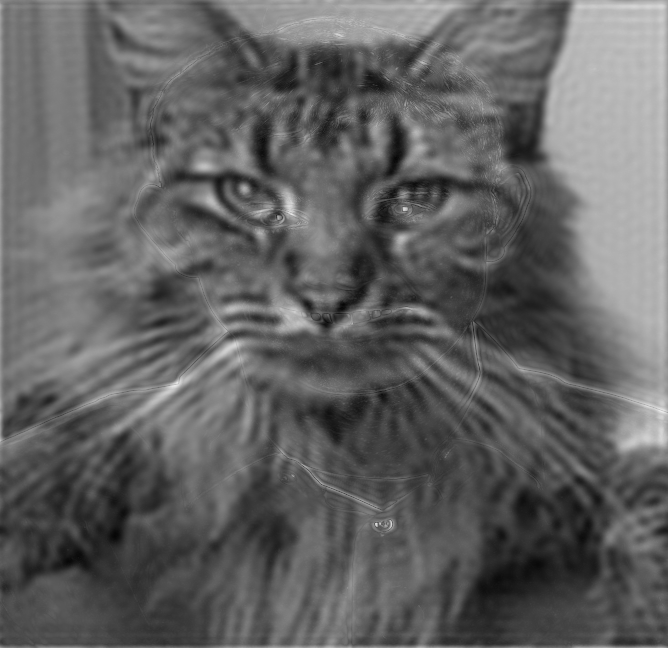
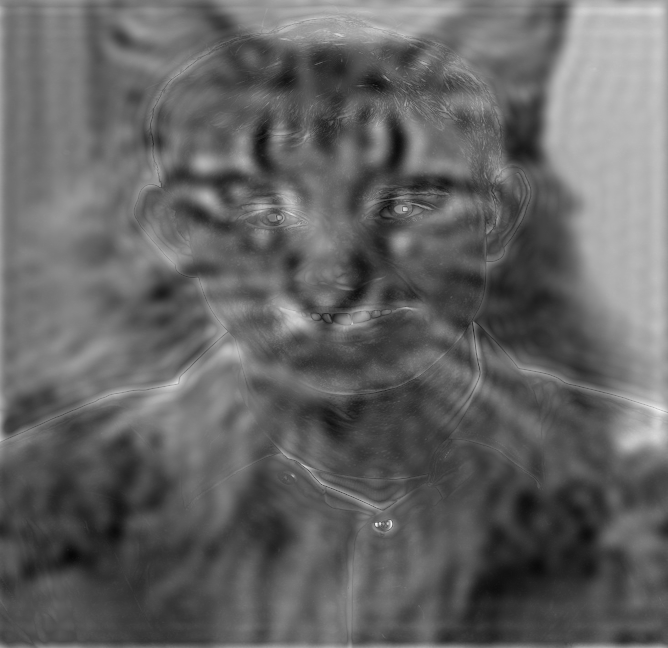
lab2 final commit

diff --git a/lab2/lab2.py b/lab2/lab2.py
@@ -1,8 +1,56 @@
 #!/usr/bin/env python3
-from PIL import Image, ImageOps, ImageDraw
+from PIL import Image, ImageOps
 import numpy as np
-from scipy import fftpack,ndimage,signal
+from scipy import fftpack
+import warnings
+warnings.filterwarnings('ignore') ##nothing but to supress warning of complex numbers
 ##this program takes around 20 seconds to run
+def boxing(): ##function to get filters and in order to create the final output
+    fft2_image1, fft2_image2 = fftpack.fftshift(fftpack.fft2(image1)), fftpack.fftshift(fftpack.fft2(image2))
+    pointb = np.array((int(np.array(fft2_image1).shape[0] / 2), int(np.array(fft2_image1).shape[1] / 2)))  ##taking the image center
+    #low pass filter
+    for i in range(np.array(fft2_image1).shape[0]):
+        for j in range(np.array(fft2_image1).shape[1]):
+            pointa = np.array((i, j))
+            distance = np.linalg.norm(pointa - pointb)
+            if (distance <= 30):pass
+                # temp1[i][j]=fft2_image1[i][j]
+            else:
+                fft2_image1[i][j] = 0
+    # high pass filter
+    for i in range(np.array(fft2_image2).shape[0]):
+        for j in range(np.array(fft2_image2).shape[1]):
+            pointa, distance = np.array((i, j)), np.linalg.norm(pointa - pointb)
+            if (distance >= 30):pass
+                  # temp2[i][j]=fft2_image1[i][j]
+            else:
+                fft2_image2[i][j]=0
+    return fft2_image1, fft2_image2
+
+def boxing2():## function to reverse the filters roles on the images in order to create the final output
+     fft2_image1, fft2_image2 = fftpack.fftshift(fftpack.fft2(image1)), fftpack.fftshift(fftpack.fft2(image2))
+     pointb = np.array(
+         (int(np.array(fft2_image1).shape[0] / 2), int(np.array(fft2_image1).shape[1] / 2)))  ##taking the image center
+     # high pass filter
+     for i in range(np.array(fft2_image1).shape[0]):
+         for j in range(np.array(fft2_image1).shape[1]):
+             pointa = np.array((i, j))
+             distance = np.linalg.norm(pointa - pointb)
+             if (distance >= 30):
+                 pass
+             # temp1[i][j]=fft2_image1[i][j]
+             else:
+                 fft2_image1[i][j] = 0
+     # low pass filter
+     for i in range(np.array(fft2_image2).shape[0]):
+         for j in range(np.array(fft2_image2).shape[1]):
+             pointa, distance = np.array((i, j)), np.linalg.norm(pointa - pointb)
+             if (distance <= 30):
+                 pass
+             # temp2[i][j]=fft2_image1[i][j]
+             else:
+                 fft2_image2[i][j] = 0
+     return fft2_image1,fft2_image2
 
 ##step 1-> open greyscale and resize to same dimensions
 image1,image2=Image.open("cat.jpg"),Image.open("man.jpg")
@@ -10,7 +58,7 @@ image1,image2=ImageOps.grayscale(image1),ImageOps.grayscale(image2)
 image2=image2.resize((np.array(image1).shape[1],np.array(image1).shape[0]), Image.ANTIALIAS) ##resizing image2 to image1 size
 
 ##step2-> perform FFT
-fft2_image1,fft2_image2=fftpack.fftshift(fftpack.fft2(image1)),fftpack.fftshift(fftpack.fft2(image2))
+fft2_image1, fft2_image2 = fftpack.fftshift(fftpack.fft2(image1)), fftpack.fftshift(fftpack.fft2(image2))
 ##saving fft image 1
 fft_image1_output=(np.log(abs(fft2_image1))* 255 /np.amax(np.log(abs(fft2_image1)))).astype(np.uint8)
 fft_image1_output=Image.fromarray(fft_image1_output)
@@ -22,57 +70,24 @@ fft_image2_output.save('output_fft_image_2_man.png')
 
 ##step3->
 #assuming right now that the image is noise free so not removing any noise
-#low pass filter on image1
-pointb = np.array((int(np.array(fft2_image1).shape[0] / 2), int(np.array(fft2_image1).shape[1] / 2))) ##taking the image center
-for i in range(np.array(fft2_image1).shape[0]):
-    for j in range(np.array(fft2_image1).shape[1]):
-        pointa=np.array((i,j))
-        distance=np.linalg.norm(pointa-pointb)
-        if(distance<=50):pass #keep that point
-        else:fft2_image1[i][j]=0 # turn black
-#high pass filter on image2
-for i in range(np.array(fft2_image2).shape[0]):
-    for j in range(np.array(fft2_image2).shape[1]):
-        pointa,distance=np.array((i,j)),np.linalg.norm(pointa-pointb)
-        if(distance>=50): pass#keep that point
-        else: fft2_image2[i][j]=0# turn black
-high_pass_image_result=abs(fftpack.ifft2(fftpack.ifftshift(fft2_image1)))
-low_pass_image_result=abs(fftpack.ifft2(fftpack.ifftshift(fft2_image2)))
+t1,t2=boxing()
+t3,t4=boxing2()
+high_pass_image_result1=abs(fftpack.ifft2(fftpack.ifftshift(t1)))
+low_pass_image_result1=abs(fftpack.ifft2(fftpack.ifftshift(t2)))
 
-##step4->
-#pixel wise summation
-new_image=np.add(np.array(high_pass_image_result),np.array(low_pass_image_result))
-output=Image.fromarray(new_image)
-if output.mode != 'RGB':
-    output = output.convert('RGB')
-output.save('output_Final_output_1.png')
+high_pass_image_result2=abs(fftpack.ifft2(fftpack.ifftshift(t3)))
+low_pass_image_result2=abs(fftpack.ifft2(fftpack.ifftshift(t4)))
 
-## for the second image
-pointb = np.array((int(np.array(fft2_image1).shape[0] / 2), int(np.array(fft2_image1).shape[1] / 2))) ##taking the image center
-for i in range(np.array(fft2_image1).shape[0]):
-    for j in range(np.array(fft2_image1).shape[1]):
-        pointa=np.array((i,j))
-        distance=np.linalg.norm(pointa-pointb)
-        if(distance>=50):pass #keep that point
-        else:fft2_image1[i][j]=0 # turn black
-#high pass filter on image2
-for i in range(np.array(fft2_image2).shape[0]):
-    for j in range(np.array(fft2_image2).shape[1]):
-        pointa,distance=np.array((i,j)),np.linalg.norm(pointa-pointb)
-        if(distance<=50): pass#keep that point
-        else: fft2_image2[i][j]=0# turn black
-high_pass_image_result=abs(fftpack.ifft2(fftpack.ifftshift(fft2_image1)))
-low_pass_image_result=abs(fftpack.ifft2(fftpack.ifftshift(fft2_image2)))
+#step4->
+#pixel wise summation and saving the final output
+new_image1=np.add(np.array(high_pass_image_result1),np.array(low_pass_image_result1))
+output1=Image.fromarray(new_image1)
+if output1.mode != 'RGB':
+    output1 = output1.convert('RGB')
+output1.save("output_Final_output_1.png")
 
-##step4->
-#pixel wise summation
-high_pass_image_result=abs(fftpack.ifft2(fftpack.ifftshift(fft2_image1)))
-low_pass_image_result=abs(fftpack.ifft2(fftpack.ifftshift(fft2_image2)))
-new_image=np.add(np.array(high_pass_image_result),np.array(low_pass_image_result))
-output=Image.fromarray(new_image)
-if output.mode != 'RGB':
-    output = output.convert('RGB')
-output.save('output_Final_output_2.png')
-
-
-
+new_image2=np.add(np.array(high_pass_image_result2),np.array(low_pass_image_result2))
+output2=Image.fromarray(new_image2)
+if output2.mode != 'RGB':
+    output2 = output2.convert('RGB')
+output2.save("output_Final_output_2.png")
